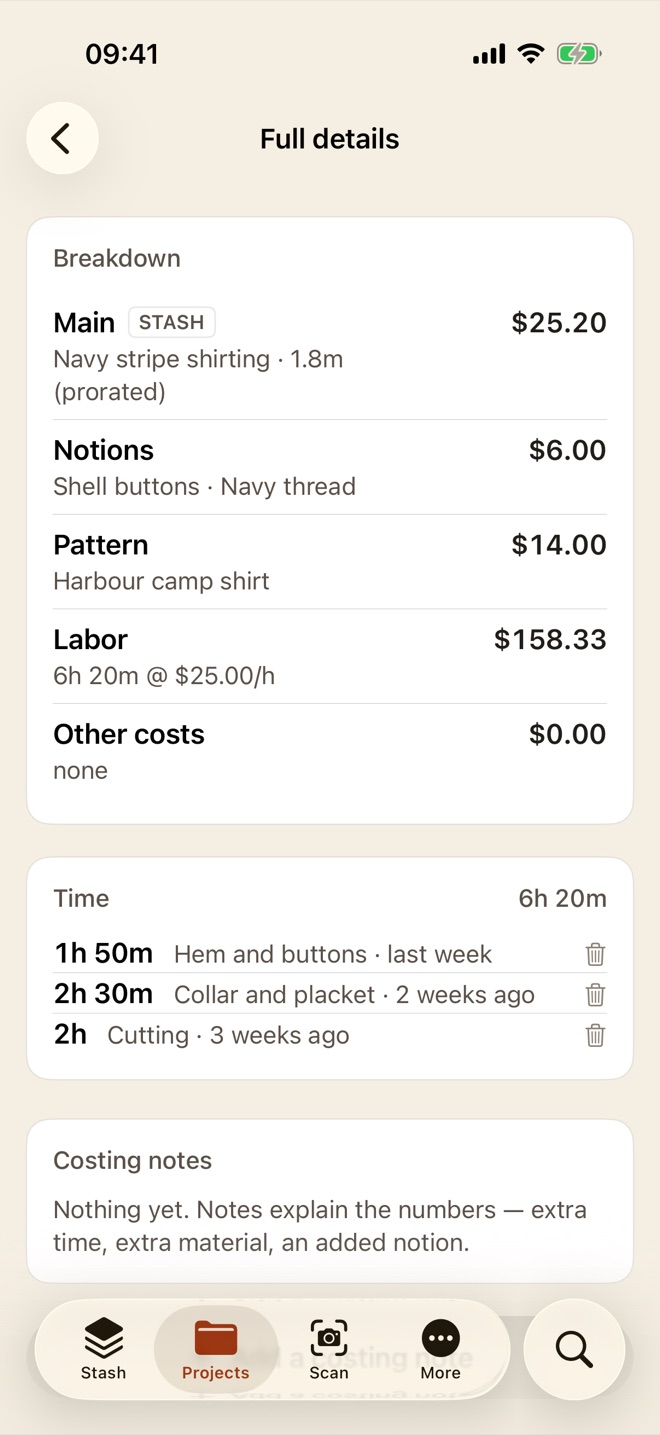
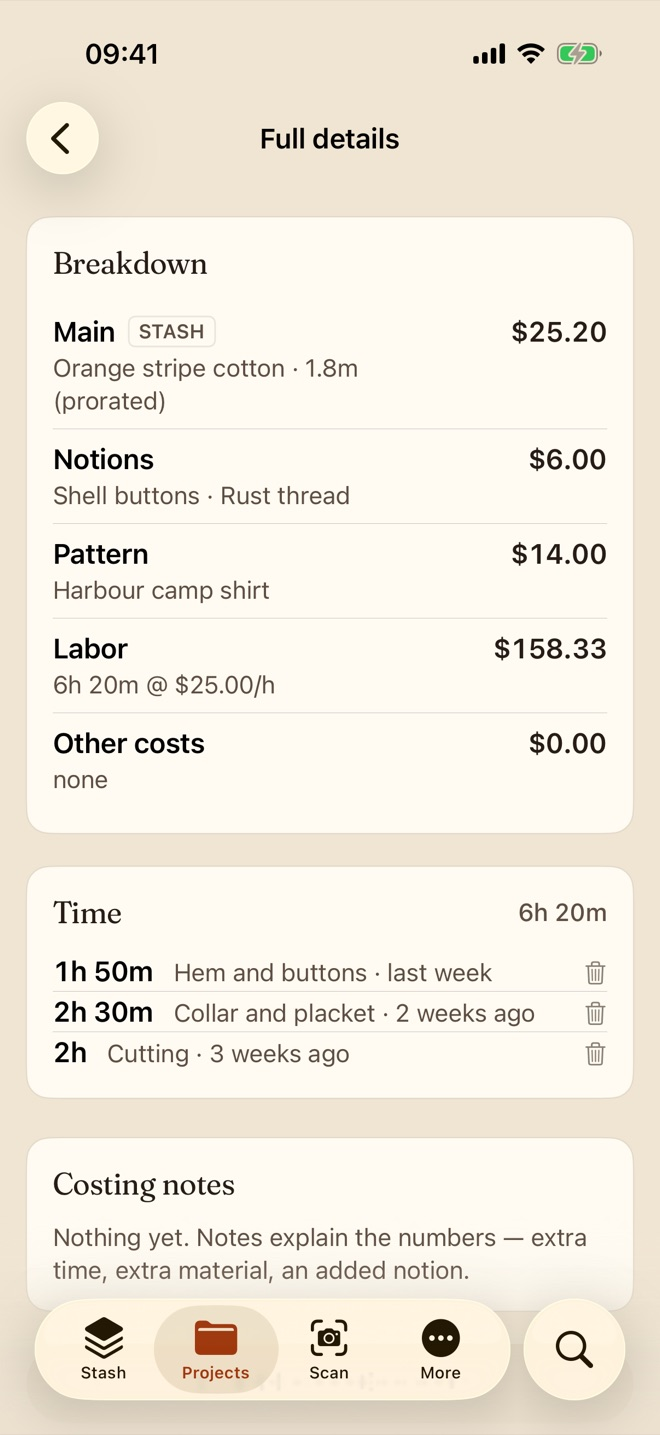
Landing: less template, real cloth, new screenshots
Checked against the common AI-default tells and fixed what matched:
- The hero heading is upright, with no italic accent word, and sits
  over a plain status line instead of a pill badge.
- The three problem cards became a numbered, ruled list beside the
  heading.
- The section labels above every heading are gone; pricing and FAQ
  headings are smaller so the features lead.
- The header is solid, not frosted glass.
- The sign-up form says what went wrong and offers the support address.

A strip of eight fabric photos from Unsplash runs under the hero
(credited in the footer). The app screenshots were retaken on the new
project screen, with the demo stash on the same photos.

diff --git a/index.html b/index.html
@@ -126,6 +126,7 @@
       transition: background 0.15s;
     }
     .button:hover { background: var(--clay-deep); }
+    .button:active { transform: translateY(1px); background: var(--clay-deep); }
     .button.small { padding: 9px 18px; font-size: 15px; }
     .text-link {
       font-size: 16px;
@@ -142,8 +143,7 @@
       position: sticky;
       top: 0;
       z-index: 10;
-      background: rgba(240, 229, 210, 0.92);
-      backdrop-filter: blur(12px);
+      background: var(--paper);
       border-bottom: 1px solid var(--line);
     }
     header .wrap {
@@ -180,22 +180,18 @@
       padding-top: 64px;
       padding-bottom: 72px;
     }
-    .badge {
-      display: inline-block;
-      background: var(--green-soft);
-      color: var(--green-deep);
-      font-size: 14px;
-      font-weight: 600;
-      padding: 6px 12px;
-      border-radius: 999px;
-      margin-bottom: 22px;
+    .status {
+      font-size: 15px;
+      color: var(--ink-2);
+      margin: 0 0 18px;
     }
     h1 {
-      font-size: 64px;
-      line-height: 1.02;
-      margin-bottom: 22px;
+      font-size: 68px;
+      font-weight: 600;
+      line-height: 1;
+      letter-spacing: -0.025em;
+      margin-bottom: 24px;
     }
-    h1 em { font-style: italic; color: var(--clay); }
     .lede {
       font-size: 19px;
       color: var(--ink-2);
@@ -229,13 +225,6 @@
       position: relative;
       height: 600px;
     }
-    .phones::before {
-      content: "";
-      position: absolute;
-      inset: 48px 0 20px 40px;
-      background: var(--paper-2);
-      border-radius: 32px;
-    }
     .phone {
       position: absolute;
       width: 268px;
@@ -248,17 +237,26 @@
     .phone.back { top: 0; right: 0; }
     .phone.front { top: 48px; left: 0; }
 
+    /* Real cloth from a real stash, edge to edge */
+    .swatches {
+      display: grid;
+      grid-template-columns: repeat(8, minmax(0, 1fr));
+      border-top: 1px solid var(--line);
+      border-bottom: 1px solid var(--line);
+    }
+    .swatches img {
+      display: block;
+      width: 100%;
+      height: auto;
+      aspect-ratio: 1;
+      object-fit: cover;
+    }
+
     /* Section basics */
     section { padding: 88px 0; }
     .section-head {
       max-width: 40em;
       margin-bottom: 44px;
-    }
-    .kicker {
-      color: var(--clay);
-      font-weight: 600;
-      font-size: 15px;
-      margin: 0 0 10px;
     }
     h2 {
       font-size: 44px;
@@ -269,34 +267,33 @@
       font-size: 18px;
       margin: 16px 0 0;
     }
-    .section-head p.kicker { color: var(--clay); font-size: 15px; margin: 0 0 10px; }
 
     /* Problems */
-    .problems { background: var(--card); border-top: 1px solid var(--line); border-bottom: 1px solid var(--line); }
-    .problem-grid {
+    .problems .wrap {
       display: grid;
-      grid-template-columns: repeat(3, minmax(0, 1fr));
-      gap: 20px;
+      grid-template-columns: minmax(0, 0.8fr) minmax(0, 1.2fr);
+      gap: 56px;
+      align-items: start;
     }
-    .problem {
-      background: var(--paper);
-      border-radius: 18px;
-      padding: 26px 26px 28px;
+    .problems h2 { font-size: 40px; }
+    .problem-list { list-style: none; margin: 0; padding: 0; }
+    .problem-list li {
+      display: grid;
+      grid-template-columns: 2.2em minmax(0, 1fr);
+      gap: 0 12px;
+      padding: 22px 0 24px;
+      border-top: 1px solid var(--ink);
     }
-    .problem h3 {
-      font-size: 23px;
+    .problem-list li:last-child { border-bottom: 1px solid var(--line); }
+    .problem-list .n {
+      font-family: var(--serif);
+      font-size: 22px;
+      color: var(--ink-3);
       line-height: 1.2;
-      margin-bottom: 10px;
     }
-    .problem p { margin: 0; color: var(--ink-2); font-size: 16px; }
-    .problem .fix {
-      margin-top: 16px;
-      padding-top: 14px;
-      border-top: 1px solid var(--line);
-      color: var(--green-deep);
-      font-weight: 600;
-      font-size: 15px;
-    }
+    .problem-list h3 { font-size: 24px; line-height: 1.2; margin-bottom: 6px; }
+    .problem-list p { margin: 0; color: var(--ink-2); grid-column: 2; }
+    .problem-list .fix { margin-top: 10px; color: var(--green-deep); font-weight: 600; }
 
     /* Features */
     .feature {
@@ -309,7 +306,6 @@
     .feature.flip .feature-copy { order: 2; }
     .feature-copy h2 { font-size: 40px; margin-bottom: 16px; }
     .feature-copy > p { color: var(--ink-2); font-size: 18px; margin: 0 0 22px; }
-    .feature-copy > p.kicker { color: var(--clay); font-size: 15px; margin: 0 0 10px; }
     .points {
       list-style: none;
       padding: 0;
@@ -354,6 +350,8 @@
     }
 
     /* Privacy */
+    #pricing h2, .faq h2 { font-size: 34px; }
+    .faq { padding: 64px 0; }
     .privacy-band {
       background: var(--green);
       color: #f3eee6;
@@ -478,6 +476,7 @@
       background: rgba(255, 251, 242, 0.06);
       color: #fffbf2;
     }
+    .form-note { min-height: 1.5em; margin: 14px auto 0 !important; font-size: 15px !important; }
     #signup input::placeholder { color: rgba(243, 238, 230, 0.5); }
 
     footer .wrap {
@@ -499,7 +498,7 @@
       h1 { font-size: 50px; }
       .hero .wrap { grid-template-columns: 1fr; }
       .phones { height: 540px; max-width: 460px; }
-      .problem-grid { grid-template-columns: 1fr; }
+      .problems .wrap { grid-template-columns: 1fr; gap: 28px; }
       .feature, .privacy-band .wrap { grid-template-columns: 1fr; gap: 36px; }
       .feature.flip .feature-copy { order: 0; }
     }
@@ -511,7 +510,7 @@
       h1 { font-size: 40px; }
       .lede { font-size: 17px; }
       .phones { height: auto; }
-      .phones::before, .phone.back { display: none; }
+      .phone.back { display: none; }
       .phone.front { position: static; display: block; margin: 0 auto; width: 250px; }
       section { padding: 60px 0; }
       h2, #signup h2 { font-size: 32px; }
@@ -541,8 +540,8 @@
     <div class="hero">
       <div class="wrap">
         <div>
-          <span class="badge">Fabric stash app for iPhone · free during the beta</span>
-          <h1>Stop buying fabric you <em>already own.</em></h1>
+          <p class="status">Fabric stash app for iPhone · free during the beta</p>
+          <h1>Stop buying fabric you already own.</h1>
           <p class="lede">Pleats is a fabric stash organizer for people who sew. It keeps your fabric, patterns and notions on your iPhone. Check it in the shop before you buy, see whether a project is covered before you cut, and know what each make really cost when it’s done.</p>
           <div class="ctas">
             <a class="button" href="#signup">Get a beta invite</a>
@@ -555,35 +554,46 @@
           </ul>
         </div>
         <div class="phones" aria-hidden="true">
-          <img class="phone back" src="screens/stash.jpg" width="330" height="715" alt="">
-          <img class="phone front" src="screens/projects.jpg" width="330" height="715" alt="">
+          <img class="phone back" src="screens/stash.jpg?v=2" width="330" height="715" alt="">
+          <img class="phone front" src="screens/projects.jpg?v=2" width="330" height="715" alt="">
         </div>
       </div>
     </div>
 
+    <div class="swatches" aria-hidden="true">
+      <img src="screens/swatches/stripe.jpg" width="360" height="360" alt="">
+      <img src="screens/swatches/tartan.jpg" width="360" height="360" alt="">
+      <img src="screens/swatches/denim.jpg" width="360" height="360" alt="">
+      <img src="screens/swatches/floral.jpg" width="360" height="360" alt="">
+      <img src="screens/swatches/linen.jpg" width="360" height="360" alt="">
+      <img src="screens/swatches/velvet.jpg" width="360" height="360" alt="">
+      <img src="screens/swatches/gingham.jpg" width="360" height="360" alt="">
+      <img src="screens/swatches/wool.jpg" width="360" height="360" alt="">
+    </div>
+
     <section class="problems">
       <div class="wrap">
-        <div class="section-head">
-          <p class="kicker">Sound familiar?</p>
-          <h2>A stash grows faster than anyone can remember it.</h2>
-        </div>
-        <div class="problem-grid">
-          <div class="problem">
+        <h2>A stash grows faster than anyone can remember it.</h2>
+        <ol class="problem-list">
+          <li>
+            <span class="n">1</span>
             <h3>The same navy linen, bought twice.</h3>
             <p>It was on sale, it looked new, and the first one was in a box under the bed.</p>
             <p class="fix">Pleats checks your stash from the shop floor.</p>
-          </div>
-          <div class="problem">
+          </li>
+          <li>
+            <span class="n">2</span>
             <h3>The pattern says 2.2 m. You have… some.</h3>
             <p>You find out it’s short after the pattern pieces are already laid out.</p>
             <p class="fix">Pleats shows the gap before you start.</p>
-          </div>
-          <div class="problem">
+          </li>
+          <li>
+            <span class="n">3</span>
             <h3>“What did that shirt cost you?”</h3>
             <p>Fabric, buttons, thread, the pattern, six evenings. Nobody adds it up.</p>
             <p class="fix">Pleats adds it up, hours included.</p>
-          </div>
-        </div>
+          </li>
+        </ol>
       </div>
     </section>
 
@@ -591,7 +601,6 @@
       <div class="wrap">
         <div class="feature">
           <div class="feature-copy">
-            <p class="kicker">Your stash</p>
             <h2>Every fabric you own, with its length.</h2>
             <p>Snap a photo and type the length and fiber. That’s enough to start; width, weight, price and where it’s stored can wait.</p>
             <ul class="points">
@@ -601,28 +610,26 @@
             </ul>
           </div>
           <div class="feature-shot">
-            <img src="screens/stash.jpg" width="330" height="715" alt="The Stash screen in Pleats: fabrics with photos and lengths, some reserved for projects" loading="lazy">
+            <img src="screens/stash.jpg?v=2" width="330" height="715" alt="The Stash screen in Pleats: fabrics with photos and lengths, some reserved for projects" loading="lazy">
           </div>
         </div>
 
         <div class="feature flip">
           <div class="feature-copy">
-            <p class="kicker">Planning</p>
             <h2>Know if the stash covers it before you cut.</h2>
             <p>Pick a pattern and its yardage fills in what the project needs. Assign fabric from your stash, and Pleats shows what’s covered and what’s still missing.</p>
             <ul class="points">
-              <li><strong>The gap, in metres.</strong> “1.5 of 2.2 m” means you know exactly what to buy.</li>
+              <li><strong>The gap, in metres.</strong> “Indigo denim · 0.7 m short” tells you exactly what to buy.</li>
               <li><strong>Patterns remember their yardage.</strong> Type it once and the next project fills in.</li>
             </ul>
           </div>
           <div class="feature-shot">
-            <img src="screens/coverage.jpg" width="330" height="715" alt="A planned project in Pleats: 1.5 of 2.2 m of green cotton twill assigned" loading="lazy">
+            <img src="screens/coverage.jpg?v=2" width="330" height="715" alt="A planned project in Pleats: denim trousers, 0.7 m of indigo denim still short, and the cost so far" loading="lazy">
           </div>
         </div>
 
         <div class="feature">
           <div class="feature-copy">
-            <p class="kicker">Cost</p>
             <h2>See what a make really cost.</h2>
             <p>Fabric is priced by the length you used, not the whole cut. Notions, the pattern and your hours go on top, and nothing missing is quietly counted as free.</p>
             <ul class="points">
@@ -631,7 +638,7 @@
             </ul>
           </div>
           <div class="feature-shot">
-            <img src="screens/cost.jpg" width="330" height="715" alt="Full details of a finished shirt in Pleats: fabric, notions, pattern and labor, each priced" loading="lazy">
+            <img src="screens/cost.jpg?v=2" width="330" height="715" alt="Full details of a finished shirt in Pleats: fabric, notions, pattern and labor, each priced" loading="lazy">
           </div>
         </div>
       </div>
@@ -647,7 +654,6 @@
     <section id="pricing">
       <div class="wrap">
         <div class="section-head">
-          <p class="kicker">Pricing</p>
           <h2>Free to start. Pleats+ when your stash outgrows it.</h2>
           <span class="beta-note">During the beta, everything is free.</span>
         </div>
@@ -683,7 +689,6 @@
     <section class="faq" id="faq">
       <div class="wrap">
         <div class="section-head">
-          <p class="kicker">Questions</p>
           <h2>Before you ask</h2>
         </div>
         <div class="faq-list">
@@ -723,13 +728,14 @@
           <input type="email" name="email" placeholder="you@example.com" autocomplete="email" required aria-label="Email">
           <button class="button" type="submit">Send me an invite</button>
         </form>
+        <p class="form-note" role="status" aria-live="polite"></p>
       </div>
     </section>
   </main>
 
   <footer>
     <div class="wrap">
-      <span>Pleats · made in Riga</span>
+      <span>Pleats · made in Riga · fabric photos from <a href="https://unsplash.com/license">Unsplash</a></span>
       <nav aria-label="Guides">
         <a href="/guides/">Sewing guides</a>
         <a href="/guides/how-much-fabric-for-a-dress">Fabric for a dress</a>
@@ -751,6 +757,8 @@
       const form = event.currentTarget;
       const button = form.querySelector("button");
       const email = form.querySelector("input[name='email']").value.trim();
+      const note = form.parentElement.querySelector(".form-note");
+      note.textContent = "";
 
       button.textContent = "Sending…";
       button.disabled = true;
@@ -763,6 +771,7 @@
         });
         if (response.ok) {
           button.textContent = "Thanks, you’re on the list";
+          note.textContent = "The invite goes to " + email + " when the next beta build is out.";
           return;
         }
         console.error("Waitlist signup failed:", response.status, await response.text());
@@ -770,6 +779,7 @@
         console.error("Waitlist signup failed", error);
       }
 
+      note.textContent = "That didn’t go through. Try again, or write to support@plts.app and I’ll add you.";
       button.textContent = "Try again";
       button.disabled = false;
     });

diff --git a/index.md b/index.md
@@ -26,7 +26,7 @@ Snap a photo and type the length and fiber. That's enough to start; width, weigh
 
 Pick a pattern and its yardage fills in what the project needs. Assign fabric from your stash, and Pleats shows what's covered and what's still missing.
 
-- **The gap, in metres.** "1.5 of 2.2 m" means you know exactly what to buy.
+- **The gap, in metres.** "Indigo denim · 0.7 m short" tells you exactly what to buy.
 - **Patterns remember their yardage.** Type it once and the next project fills in.
 
 ## See what a make really cost
